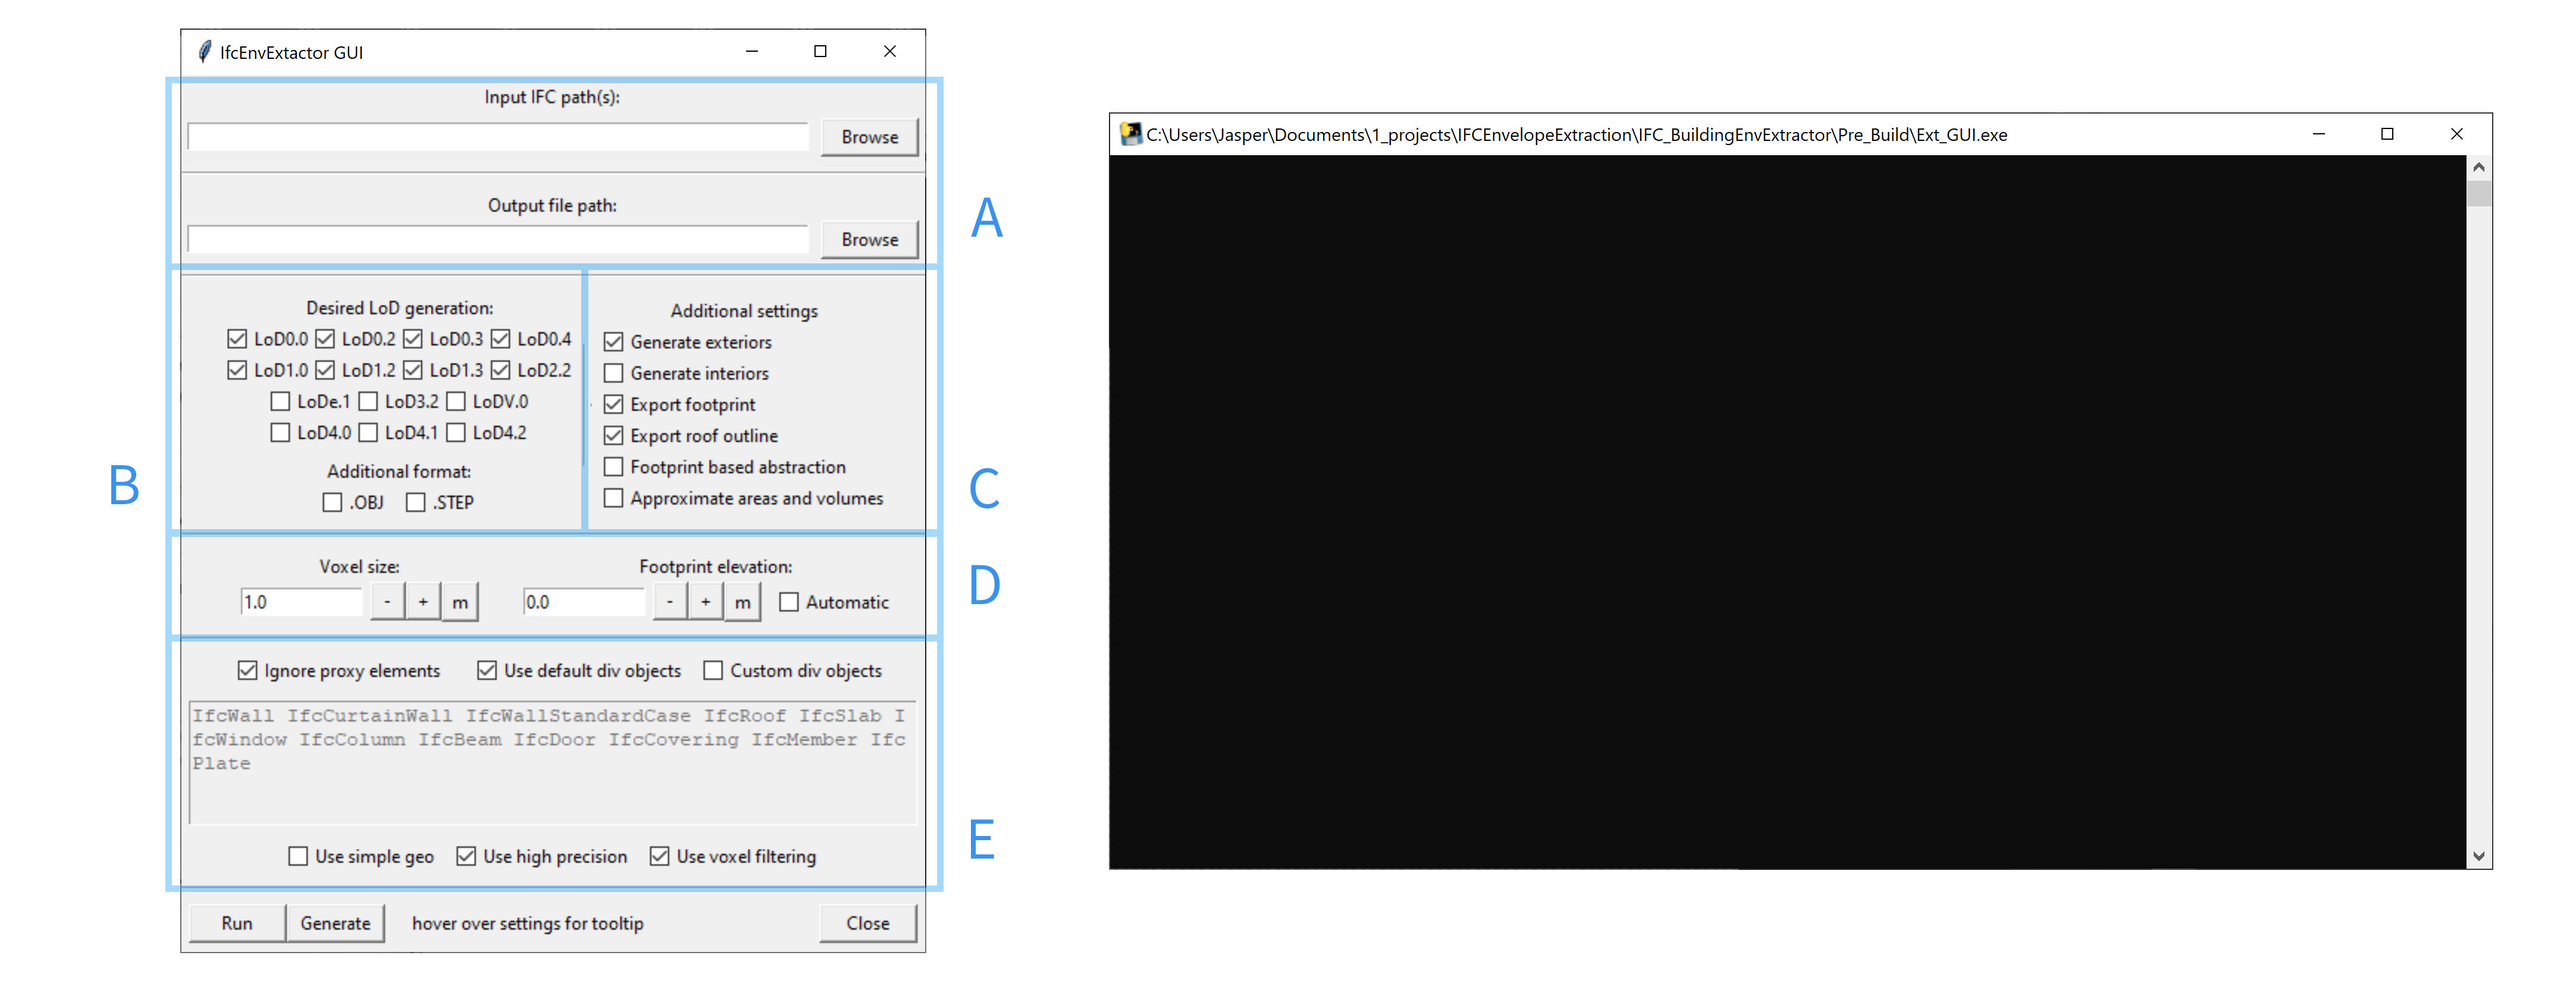
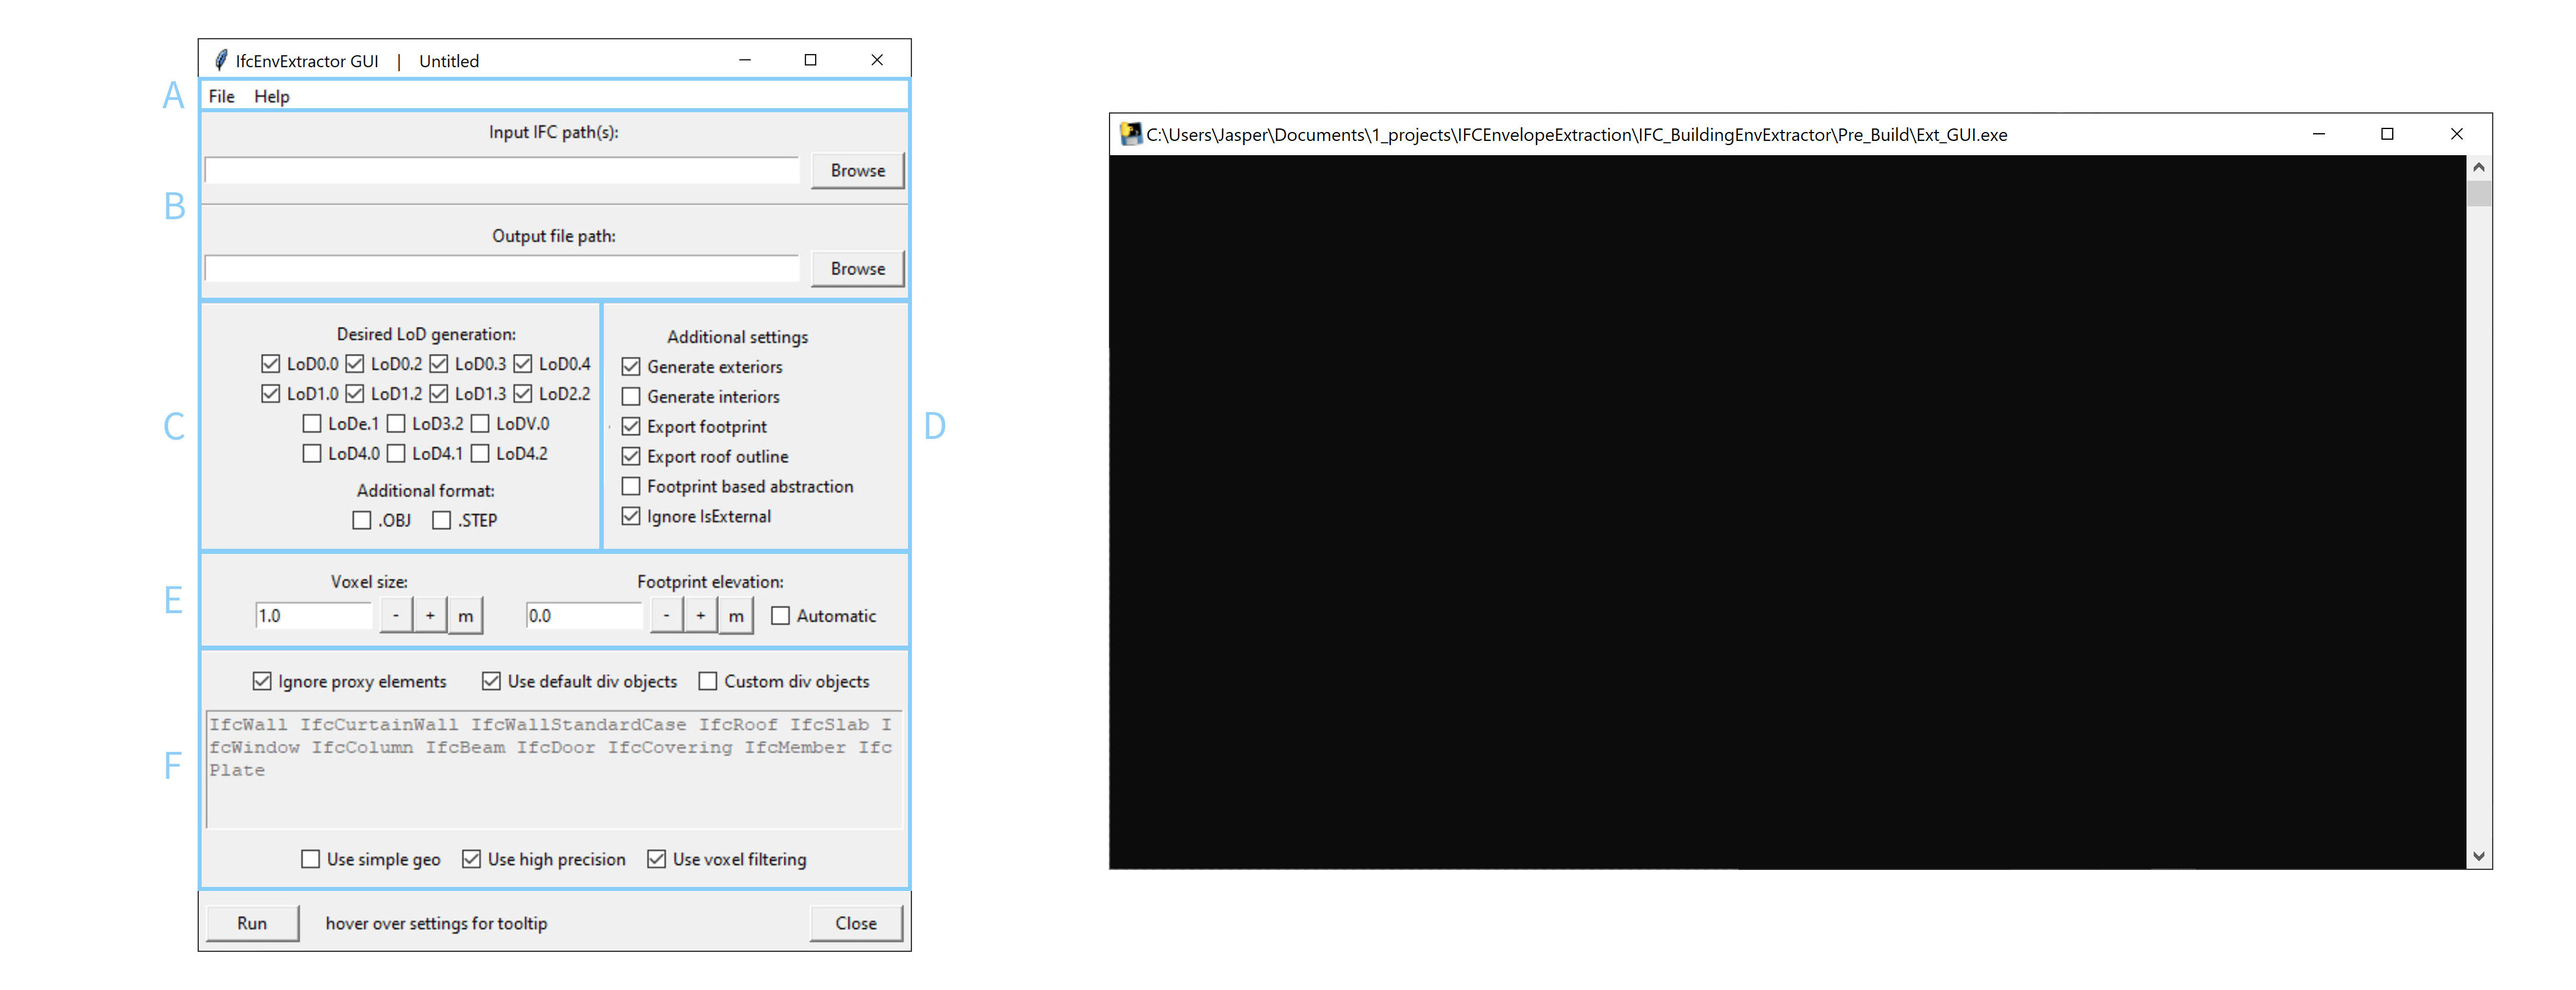
EnvExtractor GUI text verkort en geupdate

Changed region(s): [[0.0312, 0.0312, 0.4053, 0.9682]]

diff --git a/08 Toepassingen.md b/08 Toepassingen.md
@@ -82,37 +82,36 @@ Zoals eerder vermeld kan de applicatie op twee manieren ingesteld worden, via de
 
 De GUI is opgedeeld in groepen van instellingen die aan elkaar gerelateerd zijn. In de afbeelding hierboven zijn de groepen weergegeven.
 
-* A: Algemene I/O instellingen
-* B: Verwachte output LoD en encoding
-* C: Aanvullende instellingen
-* D: Numerieke parameters
-* E: Geometrische parameters
+* A: Lint menu
+  * Het inladen van config pre-sets
+  * Zetten van voorkeuren
+  * Samenvatting weergeven van JSON instellingen (ook als deze niet beschikbaar zijn in de GUI)
+  * Verwijderen van JSON instellingen die niet beschikbaar zijn in de GUI
+  * Locatie aangeven van .exe en default pre-sets
+* B: Algemene I/O instellingen
+  * Instellen van input en output locaties
+* C: Verwachte output LoD en encoding
+  * De verwachte LoD output
+  * De verwachte format output aanvullend aan CityJSON
+* D: Aanvullende instellingen
+  * Interieur & exterieur output
+  * Voetafdruk en Dakuitlijn output
+  * voetafdruk getrimde volumetrische objecten
+  * Het gebruik van het IsExternal IFC attribuut
+* E: Numerieke parameters
+  * De voxelgrootte (belangrijk voor ray-casting en filtering processen)
+  * De voetafdrukhoogte
+* F: Geometrische parameters
+  * De gebruikte objecten
+  * De simplificatie van de objecten
+  * De precisie/tolerantie
+  * Gebruik van voxel pre-filtering
 
-De eerste groep zijn de algemene I/O instellingen (A). Dit gaat over waar de input bestanden staan en waar de output naartoe moet worden geschreven. Dit kan worden geconfigureerd door de bestandslocaties in de tekst balken in te vullen of via de "browse" button. De applicatie support meerdere input bestanden. Dus modellen die zijn opgesplitst in aspect modellen kunnen door de applicatie gebruikt worden. Het is aan te raden om modellen/bestanden waarvan het bekend is dat ze geen belang spelen voor de omzetting niet als input te gebruiken. Bijvoorbeeld modellen met alleen leidingen hoeven niet als input gebruikt te worden. Om de IFC objecten te selecteren die belangrijk zijn voor de omzetting leest het programma ieder IFC bestand in om vervolgens de selectie te maken. Als de selectie gedeeltelijk van te voren gemaakt kan worden door bepaalde bestanden buiten te sluiten dan zal dit het omzettingsprocess versnellen.
+Er is ook een simpele versie van de GUI beschikbaar. Deze is vooral gemaakt voor het laden van pre-set bestanden.
 
-De tweede groep zijn de verwachte output LoD en encoding (B). Afhankelijk van het doel van de GIS export kan hier een selectie van gemaakt worden. De eerste drie rijen van deze lijst is gesorteerd in complexiteit. De vierde rij valt hierbuiten, in deze rij staat de 1:1 vertaling/mapping. Dit zijn meestal relatief trage processen die maar in beperkte mate complex zijn.
+![De simpele GUI van de IfcEnvelopeExtractor](media/07_toepassingen/GUI_simple_example.JPG "De simpele versie van de GUI voor de envelope extractor")
 
-![Voorbeeld van de resulterende bestanden als alternatieve encoding output wordt gebruikt](media/07_toepassingen/output_alt_encoding.JPG "Voorbeeld van de resulterende bestanden als alternatieve encoding output wordt gebruikt.")
-
-Onderaan deze groep kan de encoding aangevuld worden. De tool zal altijd een CityJSON bestand genereren. Maar het is mogelijk om extra kopieën te genereren in .obj en/of .STEP encodig. Deze bestanden zijn enkel geometrisch. Semantische data zoals attributen woren niet in deze bestanden opgeslagen. De bestanden ondersteunen ook geen multi LoD, daarom wordt iedere LoD in een los bestand geplaatst. Deze kopieën hebben dezelfde naam als de gekozen output naam, maar ze zullen eLoDxx en iLoDxx toegevoegd hebben om de buiten- en binnenkant van het gebouw te representeren. Waarbij de xx vervangen wordt door de daadwerkelijke LoD. Deze instelling is nog niet volledige ondersteund voor iedere LoD door de software
-
-De derde groep zijn de aanvullende instellingen (C). Dit zijn instellingen die een abstractie extra detail kan geven, of juist detail kan wegnemen. Zo kan bijvoorbeeld via deze instellingingen gekozen worden voor alleen een export van het interieur. Er zijn twee instellingen die niet per se voor zichzelf spreken en extra uitleg nodig hebben.
-
-De eerste is "Footprint based abstraction". "Footprint based abstraction" dicteert of de modellen moeten worden gelimiteerd door de voetafdruk. Voor LoD1.2, 1.3 en 2.2 worden de oppervlaktes die het dak representeren naar de voetafdruk hoogte geëxtrudeerd. Dit betekend dat het dak de omvang van het gebouw bepaald. Als het dak over de voetafdruk van het gebouw heen hangt dan wordt het uiteindelijk grondoppervlak van de LoD1.2, 1.3 en 2.2 abstractie groter dan de daadwerkelijke voetafdruk. Als "Footprint based abstraction" wordt aangezet dan worden de dakoppervlaktes eerst bijgesneden zodat er nergens overhang is over de voetafdruk. Hierdoor zijn de grondoppervlaktes van LoD1.2, 1.3 en 2.2 identiek aan de daadwerkelijke voetafdruk van het gebouw. Een bijeffect hiervan is dat als er overhang in het gebouw aanwezig is de dakoppervlaktes nu kleiner zijn de LoD0.2, 0.3 en 0.4.
-
-![Visualisatie van het verschil tussen een LoD2.2 vorm die gebaseerd is op de roof outline, en een LoD2.2 vorm die is beperkt door de voetafdruk](media/07_toepassingen/footprintrestrictedex.jpg "Visualisatie van het verschil tussen een LoD2.2 vorm die gebaseerd is op de roof outline (midden), en een LoD2.2 vorm die is beperkt door de voetafdruk (rechts). Beide modellen zijn gebaseerd op dezelfde input (links).")
-
-De tweede is "Approximate areas and volumes". Zoals het woord "approximate" suggereert is dit een inschatting en niet de daadwerkelijke waarde. IFC modellen zijn geometrisch complex en het is niet altijd mogelijk om een gesloten schil te creëren. Zonder een geslote schil is het moeilijk de het volume te berekenen. Als "Approximate areas and volumes" wordt aangezet dan worden de volumes en oppervlaktes van de schillen berekend op basis van de voxelisatie. De kwaliteit en betrouwbaarheid van deze resultaten zijn erg afhankelijk van de grootte van de voxels die zijn gekozen.
-
-De vierde groep zijn de Numerieke parameters (D). Dit zijn de enige numerieke controle die de gebruiker over de applicatie heeft. De tool gebruikt voxels voor veel processen, hierdoor is het lastig om een correcte grootte te kiezen. Over het algemeen is iets kleiner dan de grootte van de kleinste nis gedeeld door twee in het model een goede waarde. Mocht dit onbekend zijn dan is 0.2 meter meestal goed.
-
-De voetafdruk hoogte is de waarde waarop de voetafdruk zich bevindt. Voor de meeste input modellen moet dit met de hand gemeten worden. Vaak is 0 correct, maar soms wordt het lokale coördinatensysteem gebruikt om foutieve georeferencie te compenseren. Als het IFC model gemaakt is volgens de [BIM basis ILS](https://www.digigo.nu/ilsen-en-richtlijnen/bim-basis-ils/) van DigiGO dan kan de automatische instelling gebruikt worden om de tool zelf de voetafdruk hoogte te vinden. Het programma zoekt dan naar een verdieping die begint met "00" dat wordt gevolgd door een spatie.
-
-De vijfde groep zijn de Geometrische parameters(E). Deze instellingen gaan over de geometrie van het IFC bestand dat de tool gebruikt. De bovenste rij zijn drie check boxes die gaan over het tekst vak eronder. Dit tekst vak laat alle IFC classes zien de worden gebruikt door de software. De IfcBuildingElementProxy objecten kunnen hier aan toegevoegd worden door "Ignore Proxy Elements" uit te zetten. De standaard objecten worden uit deze lijst gehaald door "Use default div Object" uit te zetten. Er kunnen zelf object classes toegevoegd worden aan het tekst vak door het te ontgrendelen door "Custom div objects" aan te zetten. De software gebruikt alleen bestaande [IfcClasses](https://standards.buildingsmart.org/IFC/RELEASE/IFC4/ADD2_TC1/HTML/link/alphabeticalorder-entities.htm). Dit is niet hoofdletter gevoelig.
-
-De onderste rij zijn weer drie check boxes. Dit zijn nog enkele losse instellingen die gerelateerd zijn aan de geometrie van het IFC bestand. "Use simple geo" dicteerd of void objecten moeten worden toegepast op volumetrische objecten. "Use high precision" dicteerd of een precisie van 1e-6m of 1e-4m moet worden gebruikt. "Use voxel filtering" dicteerd of er moet worden gefilterd met voxel intersecties voordat complexere filters worden toegepast. Voxels gebruiken om te filteren is sneller, maar ook minder precies.
-
-Als de instellingen zijn bepaald kan het programma direct worden gestart door de "Run" knop in te drukken, of een ConfigJSON kan worden gemaakt door de "Generate" knop te drukken.
+Een uitgebreide beschrijving van de GUI kan (in het engels) worden gevonden op de [GitHub van de EnvExtractor](https://github.com/tudelft3d/IFC_BuildingEnvExtractor/blob/master/Documentation/1_Gui.md).
 
 **ConfigJSON**
 
